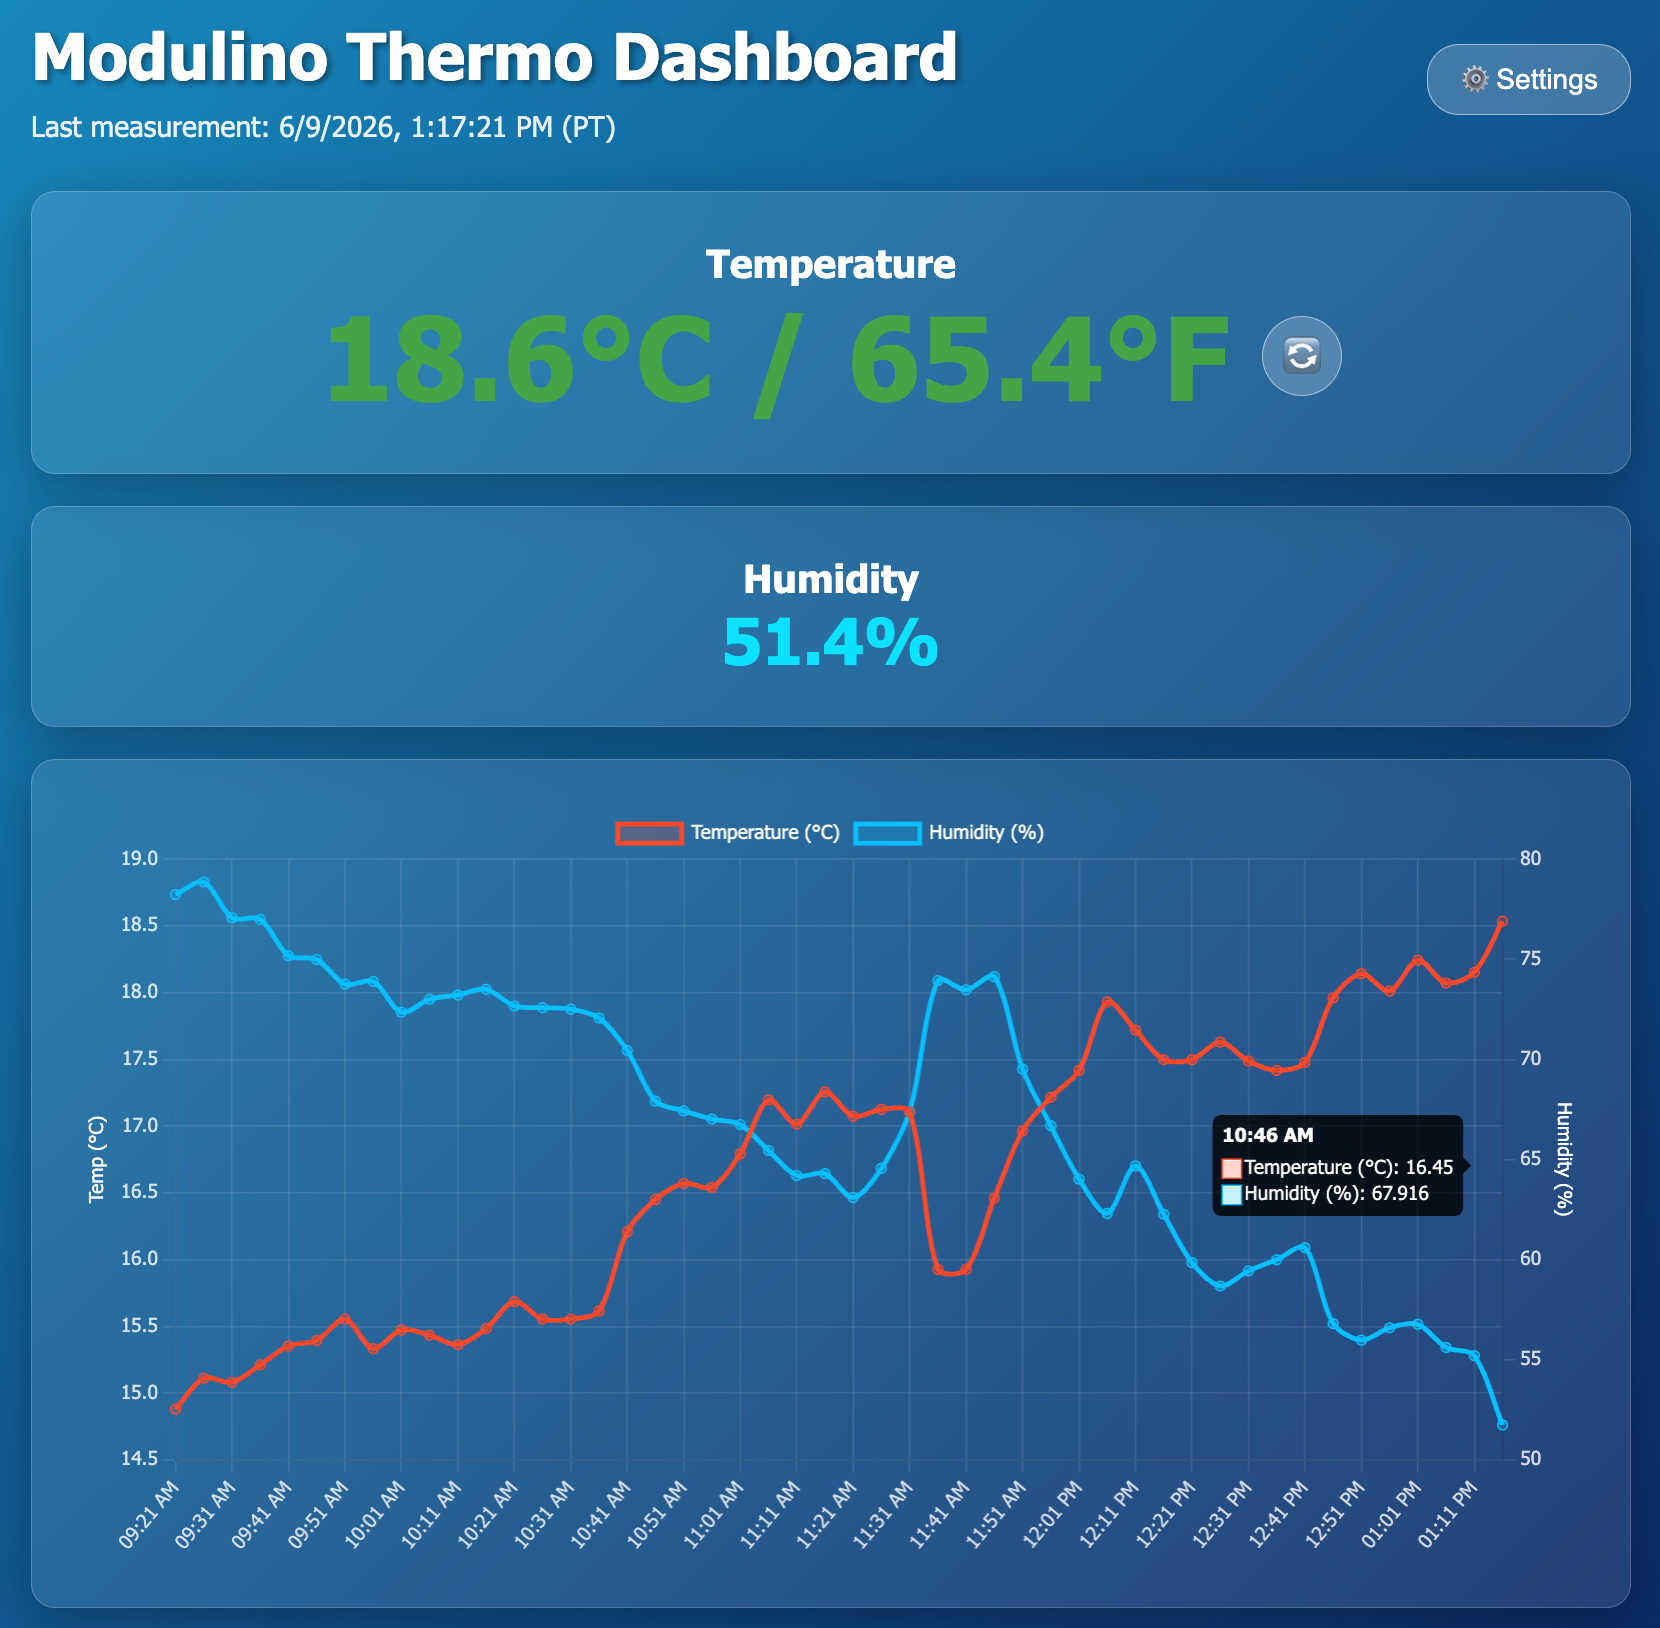
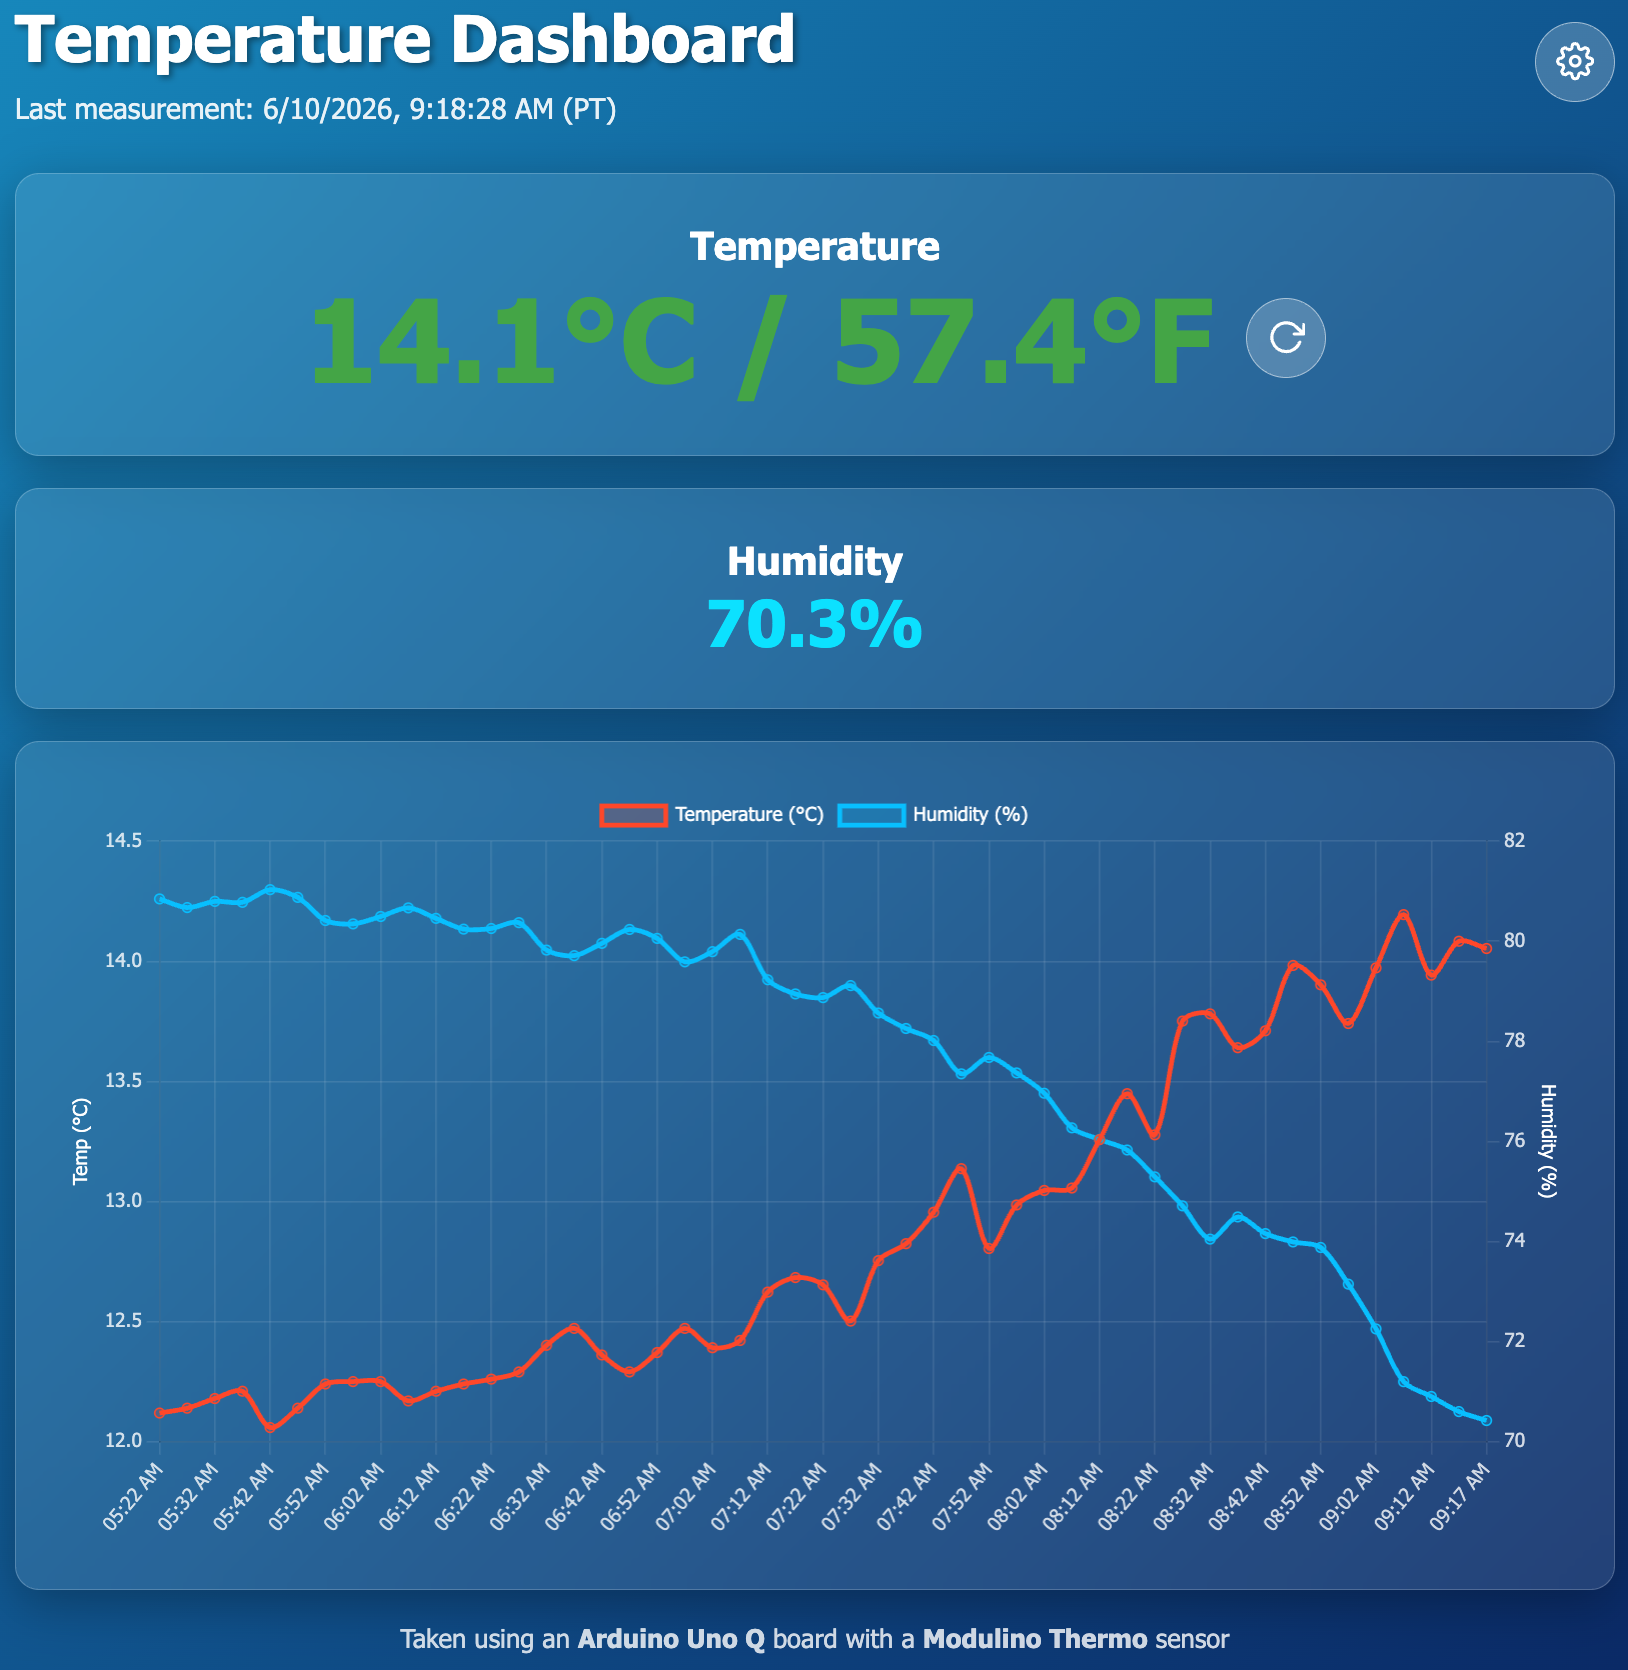
fix footer

diff --git a/assets/style.css b/assets/style.css
@@ -275,6 +275,13 @@ h1 {
   background: #45a049;
 }
 
+/* Footer styling */
+footer {
+  text-align: center;
+  margin-top: 20px;
+  opacity: 0.8;
+}
+
 /* Responsive Tweaks for Mobile Devices */
 @media (max-width: 600px) {
   .header-container {

diff --git a/assets/index.html b/assets/index.html
@@ -78,7 +78,7 @@
     </div>
 
     <footer>
-      <p>Taken using an Arduino Uno Q with a Modulino Thermo sensor</p>
+      <p>Taken using an <b>Arduino Uno Q</b> board with a <b>Modulino Thermo</b> sensor</p>
     </footer>
 
     <script src="app.js"></script>